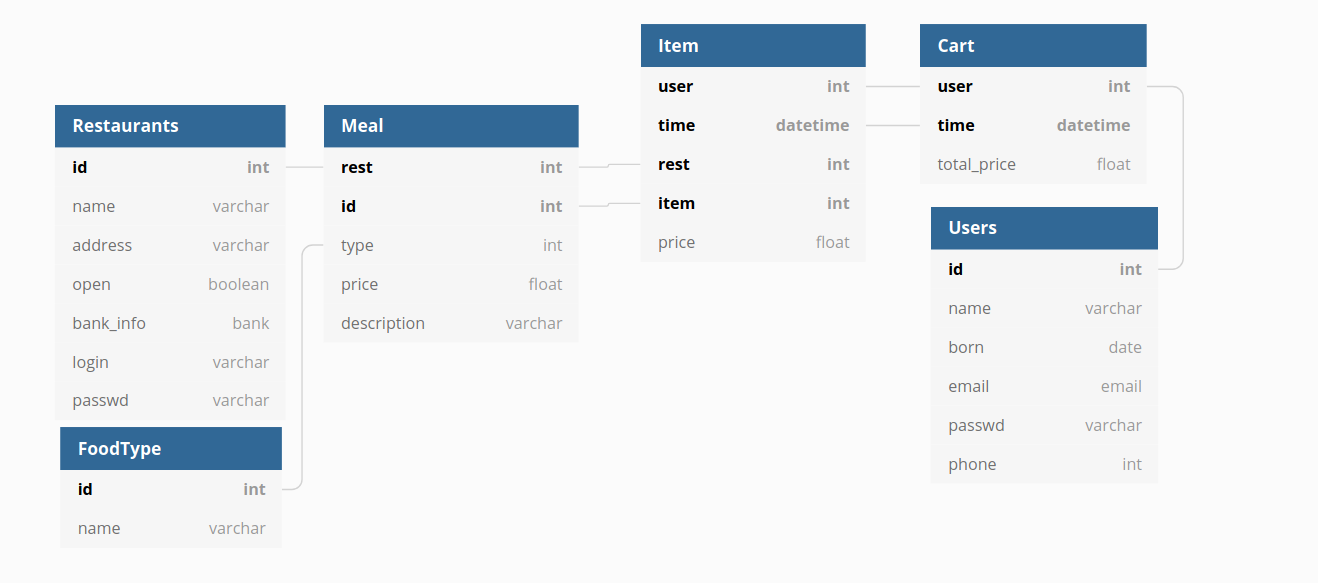
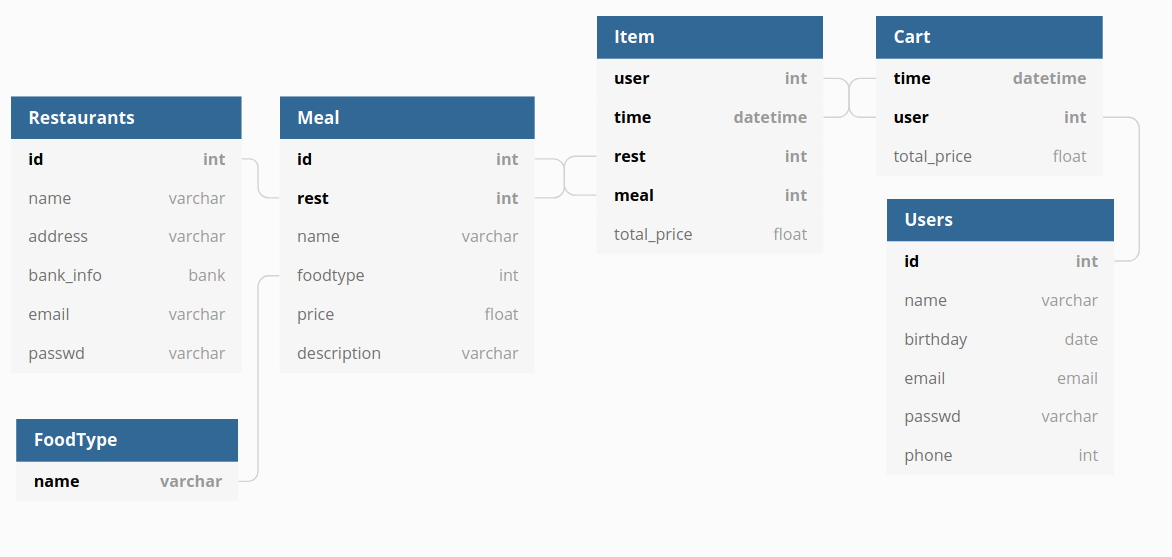
It's now possible to drop the whole database (maybe select tables to drop in the future?) Order of columns in Item (inside scheme) changed. I was unable to create the scheme on the older order. 	modified:   __main__.py 	modified:   scheme.py
Some small modifications were made with time. Just updating the visual scheme.
Some of the forseable modifications which could be implemented are commented
in the .io file.
	modified:   visualscheme/dbdiagram.io
	modified:   visualscheme/scheme.png

diff --git a/src/apis/database/scheme.py b/src/apis/database/scheme.py
@@ -19,6 +19,15 @@ class Serializable():
 
 		return data
 
+	def safe_serialize(self):
+		data = self.serialize()
+
+		for key in ('login', 'passwd'):
+			if key in data:
+				del data[key]
+
+		return data
+
 class User(Base, Serializable):
 	__tablename__ = 'Users'
 
@@ -59,23 +68,24 @@ class Meal(Base, Serializable):
 
 	id = Column(Integer	, primary_key=True)
 	rest = Column(Integer, ForeignKey('Restaurants.id'), primary_key=True)
+	name = Column(String(255), nullable=False)
 	foodtype = Column(String(255), ForeignKey('FoodTypes.name', ondelete='RESTRICT'))
 	price = Column(Float, nullable=False)
 	description = Column(String(511))
 
 class Cart(Base, Serializable):
-	__tablename__ = 'Cart'
+	__tablename__ = 'Carts'
 
-	user = Column(Integer, ForeignKey('Users.id', ondelete='RESTRICT'), primary_key=True)
 	time = Column(DateTime, primary_key=True)
+	user = Column(Integer, ForeignKey('Users.id', ondelete='RESTRICT'), primary_key=True)
 	total_price = Column(Float, nullable=False)
 	#trigger total_price = sum(item.price)
 
 class Item(Base, Serializable):
 	__tablename__ = 'Items'
 
-	user = Column(Integer, ForeignKey('Cart.user', ondelete='RESTRICT'), primary_key=True)
-	time = Column(DateTime, ForeignKey('Cart.time', ondelete='RESTRICT'), primary_key=True)
+	user = Column(Integer, ForeignKey('Carts.user', ondelete='RESTRICT'), primary_key=True)
+	time = Column(DateTime, ForeignKey('Carts.time', ondelete='RESTRICT'), primary_key=True)
 	rest = Column(Integer, ForeignKey('Meals.rest', ondelete='RESTRICT'), primary_key=True)
 	meal = Column(Integer, ForeignKey('Meals.id', ondelete='RESTRICT'), primary_key=True)
 	total_price = Column(Float, nullable=False)

diff --git a/src/apis/database/__main__.py b/src/apis/database/__main__.py
@@ -35,12 +35,46 @@ if __name__ == '__main__':
 
 	args = parser.parse_args()
 
+
+	database_url = args.database
+	if database_url is None:
+		try:
+			database_url = os.getenv('DATABASE_URI')
+		except:
+			print("__main__.py: error: the following arguments are required: --database")
+			sys.exit()
+
 	if args.create_scheme:
-		engine = create_engine(args.database)
+		engine = create_engine(database_url)
 		Base.metadata.create_all(engine)
 		print("scheme created")
+
 	elif args.delete_scheme:
-		raise NotImplemented("Deletion of scheme not implemented.")
+		import random, string
+		key = ''.join(random.SystemRandom().choice(string.ascii_letters + string.digits) for _ in range(5))
+		print('\033[91m' + "WARNING:", '\033[93m', 'You are about to drop ALL TABLES from the database')
+
+		try:
+			confirmation = input(f"If you wish to proceed, type: {key}'\033[0m'\n>>> ")
+
+			if key != confirmation:
+				print("Key incorrect, operation cancelled!")
+			else:
+				from .scheme import Item, Cart, Meal, FoodType, Restaurant, User
+
+				for table in (Item, Cart, Meal, FoodType, Restaurant, User):
+					try:
+						table.__table__.drop()
+					except Exception:
+						print("An exception has occured with", table.__tablename__)
+					else:
+						print(table.__tablename__, "dropped")
+
+				print('Scheme has been deleted')
+		except KeyboardInterrupt:
+			print("Keyboard Interruption! Operation Cancelled.")
+
+
 	elif args.run:
 		app.run(debug=args.debug, port=args.port)
 	elif args.test:
